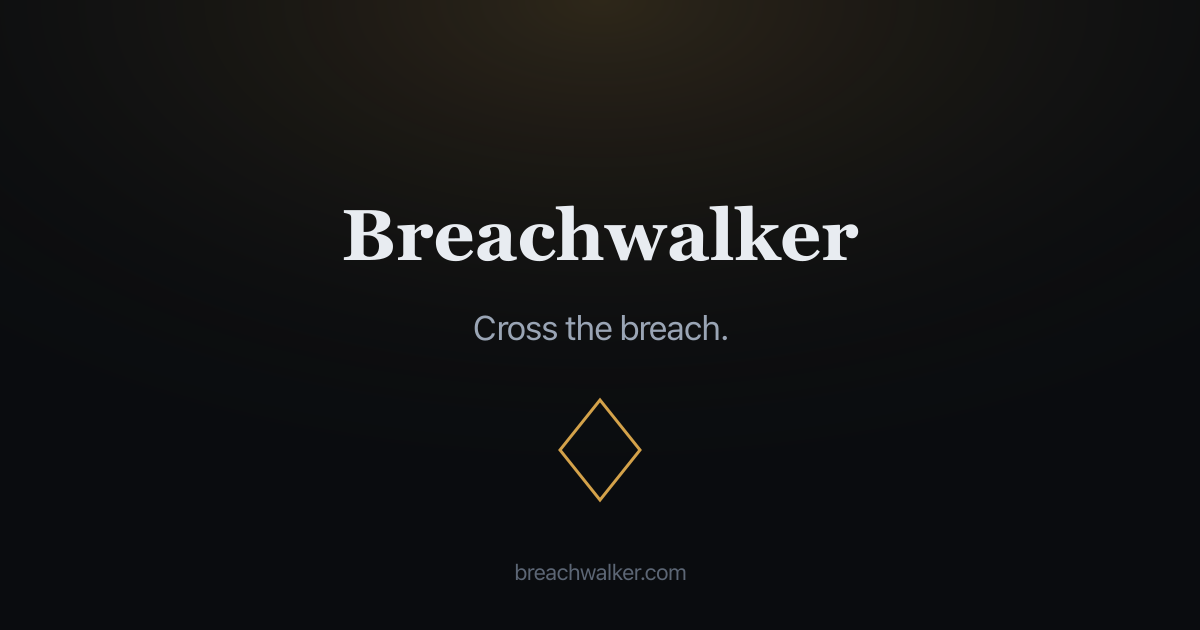
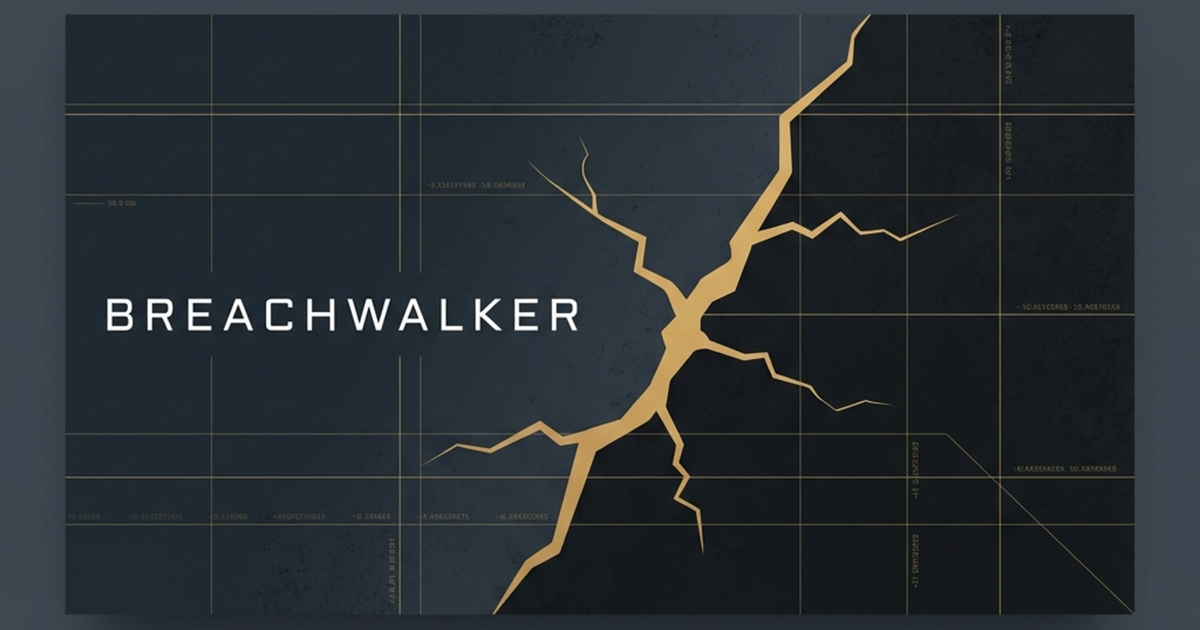
Add Discord placements and refresh brand assets.
Links Discord from header/footer/alpha/FAQ and adds app icons + manifest.
Uses website banner for default OG image.

diff --git a/src/data/site.ts b/src/data/site.ts
@@ -12,6 +12,7 @@ export const SITE = {
   /** Until breachwalker.com mail exists — single inbox for contact & privacy */
   contactEmail: "[email redacted]",
   privacyEmail: "[email redacted]",
+  discordInviteUrl: "https://discord.gg/HdaPWaAVV",
   ogImage: "/og/og-default.png",
   /** Set via PUBLIC_CF_WEB_ANALYTICS_TOKEN in Cloudflare Pages env */
   cfWebAnalyticsToken: import.meta.env.PUBLIC_CF_WEB_ANALYTICS_TOKEN ?? "",